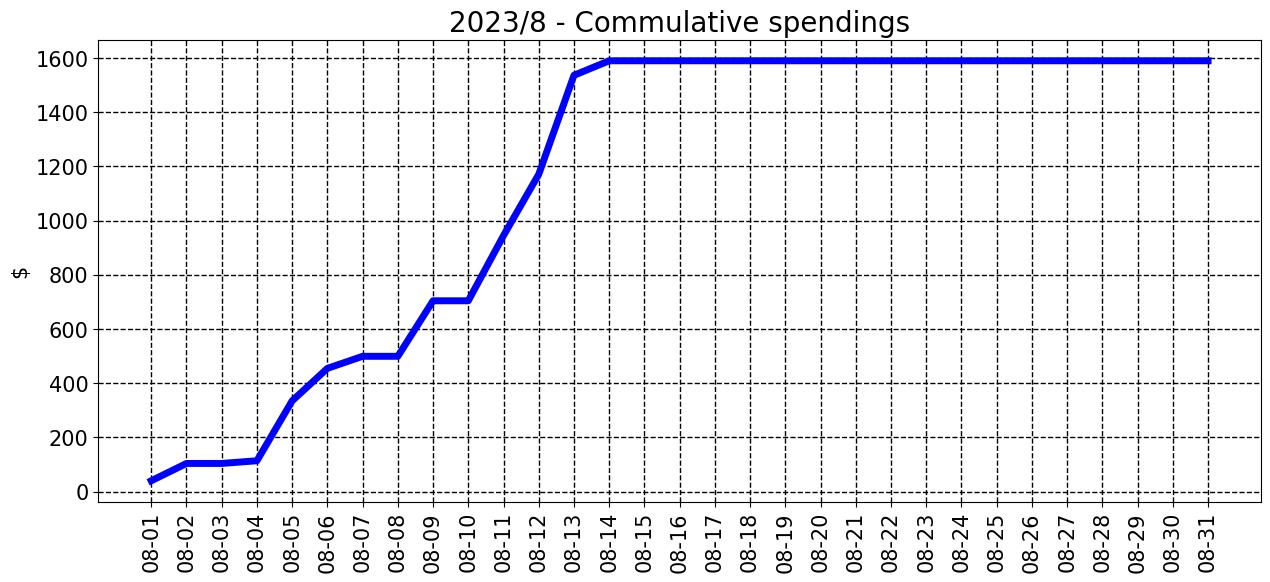
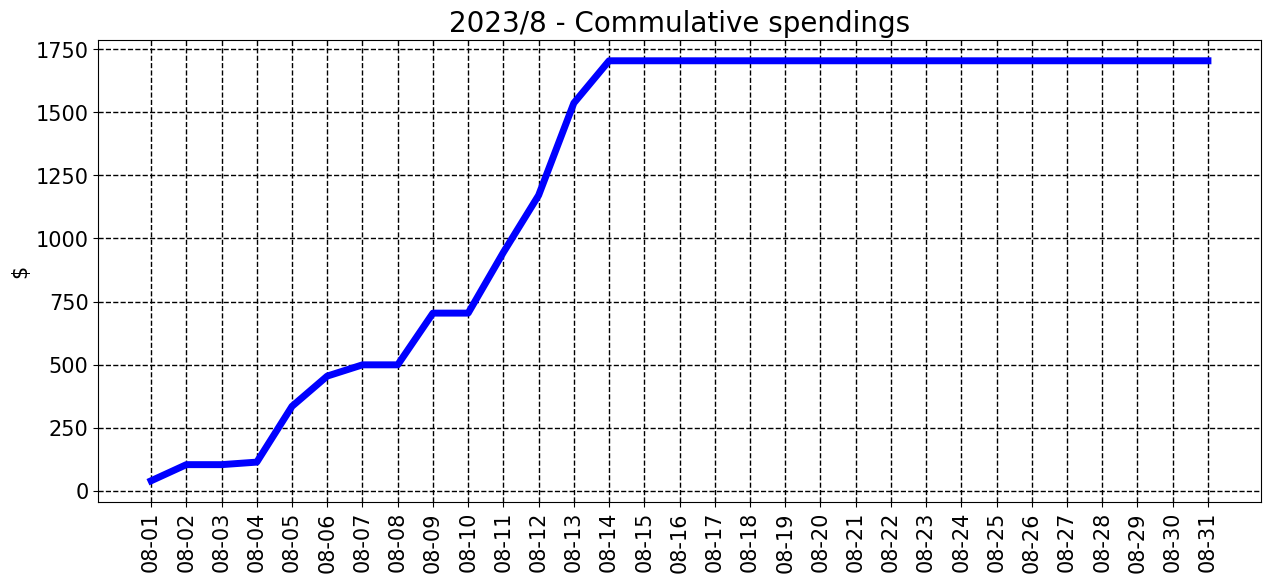
commit from python

diff --git a/README.md b/README.md
@@ -7,7 +7,7 @@ __________________________________
 <sub><sup>
 | Spent | Avg daily | End of month projection | Spent since 2023/7 |
 |---|---|---|---|
-| $1590.0  |  $113.6  | $3522.0  |  $1978.0  |
+| $1704.0  |  $121.7  | $3773.0  |  $2092.0  |
 </sub></sup>
 __________________________________
 ![graph_8_sum](graph_8_sum.png)
